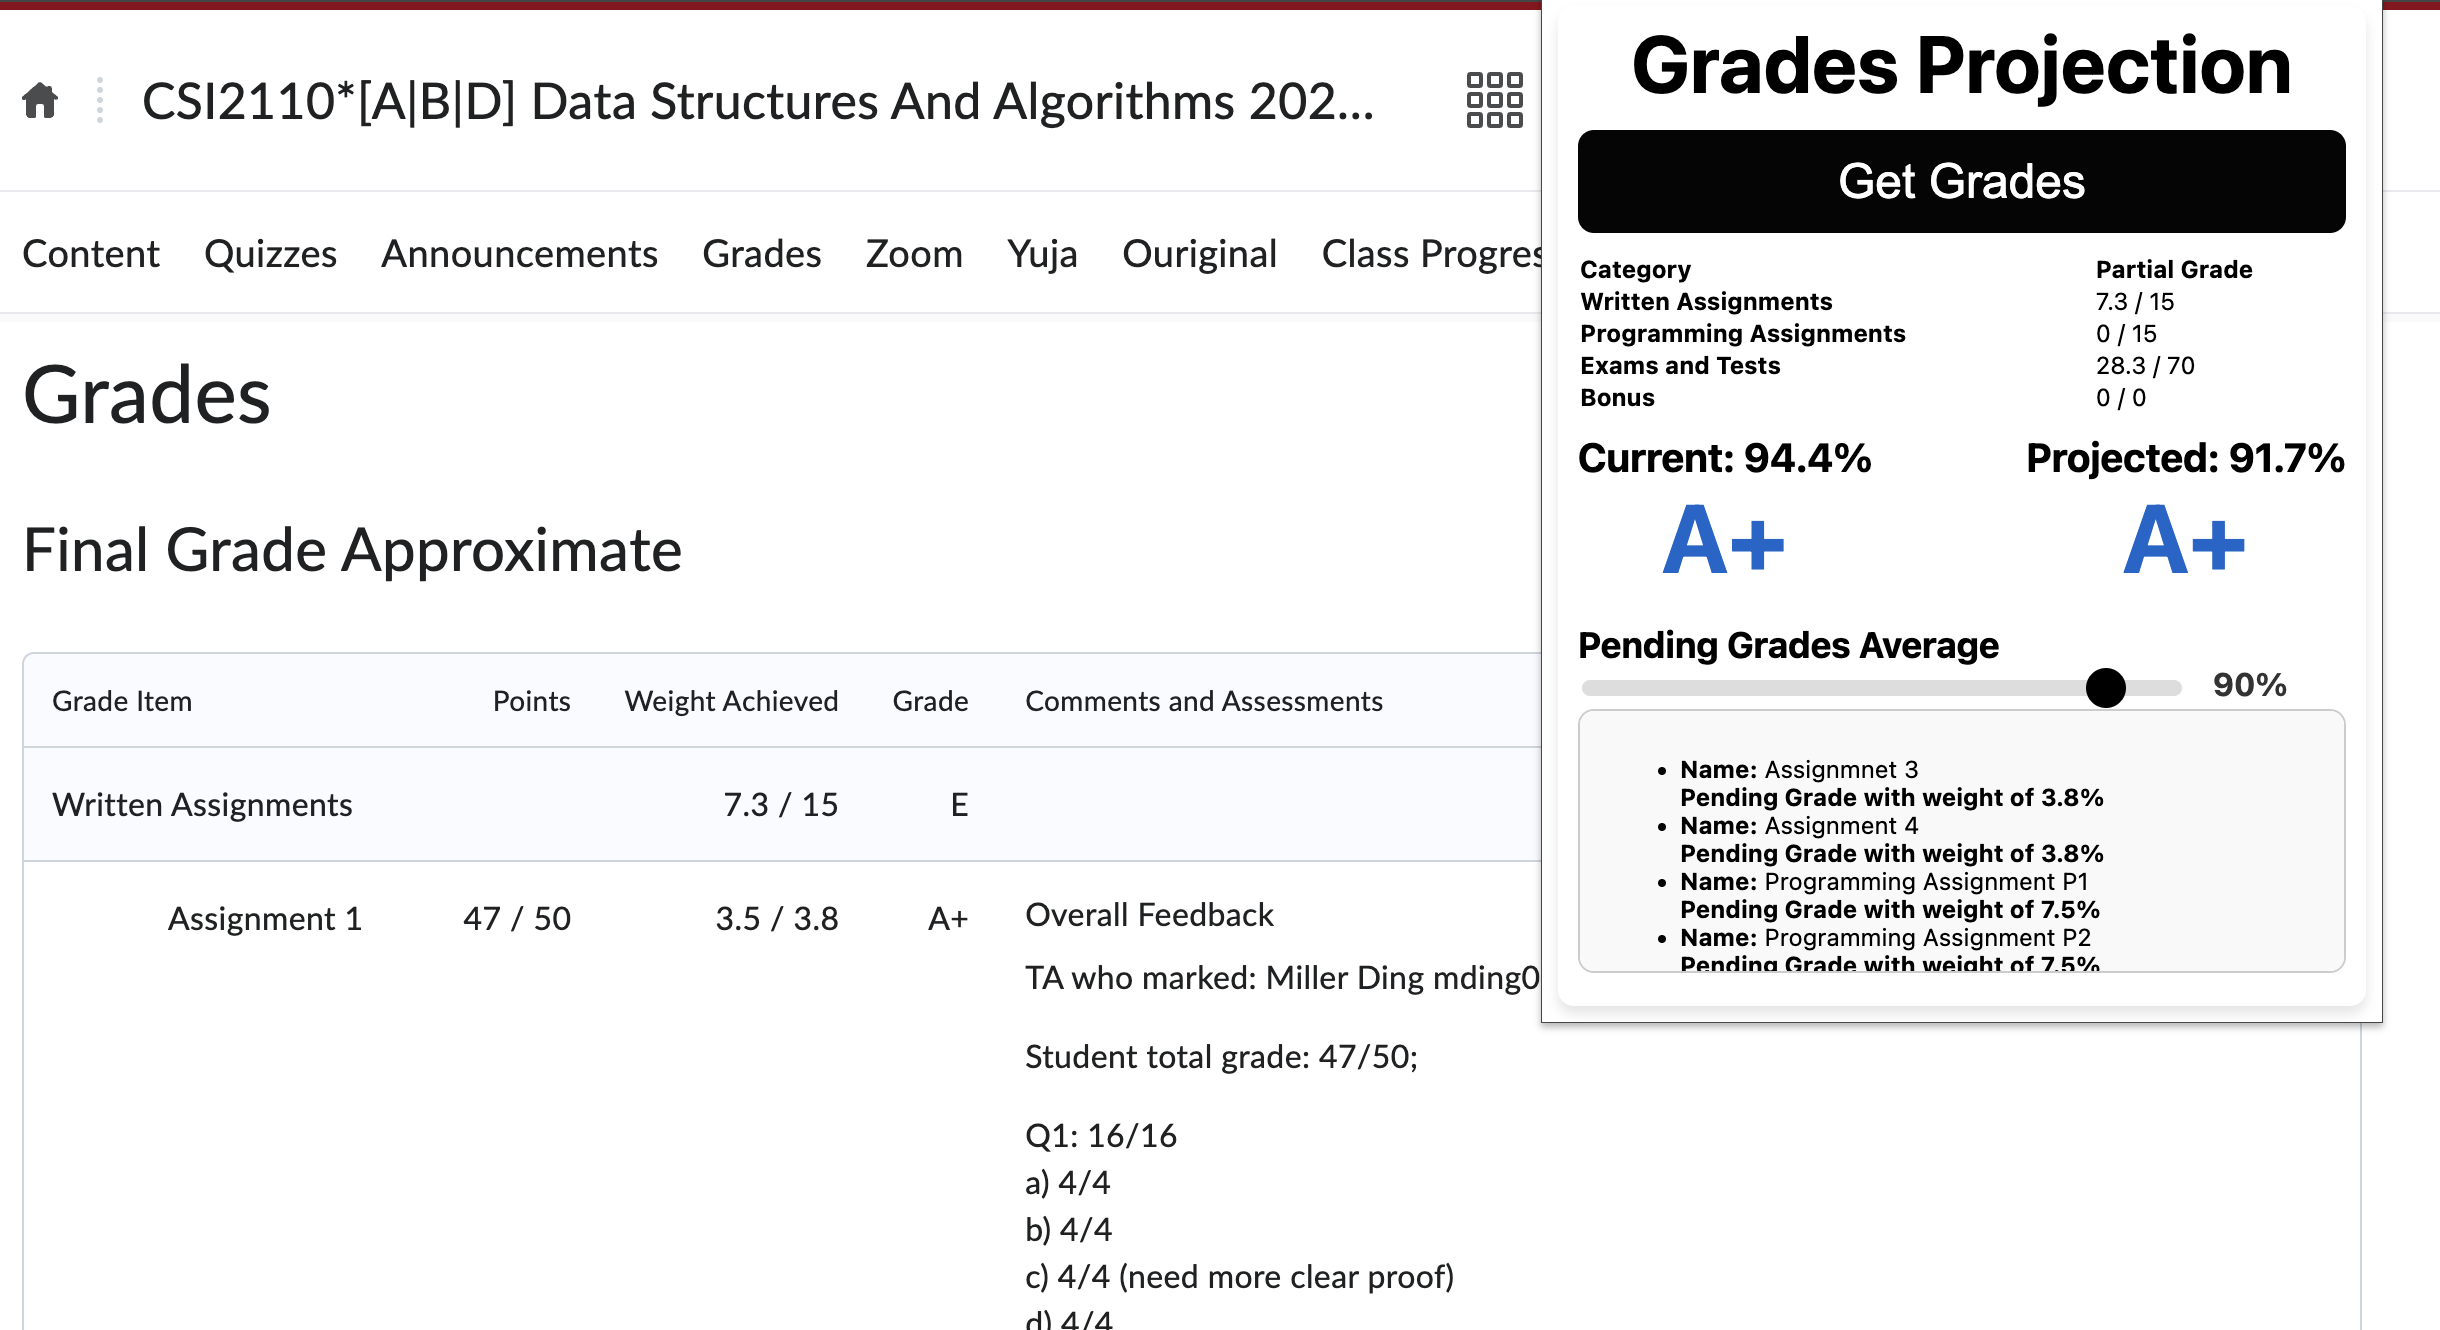
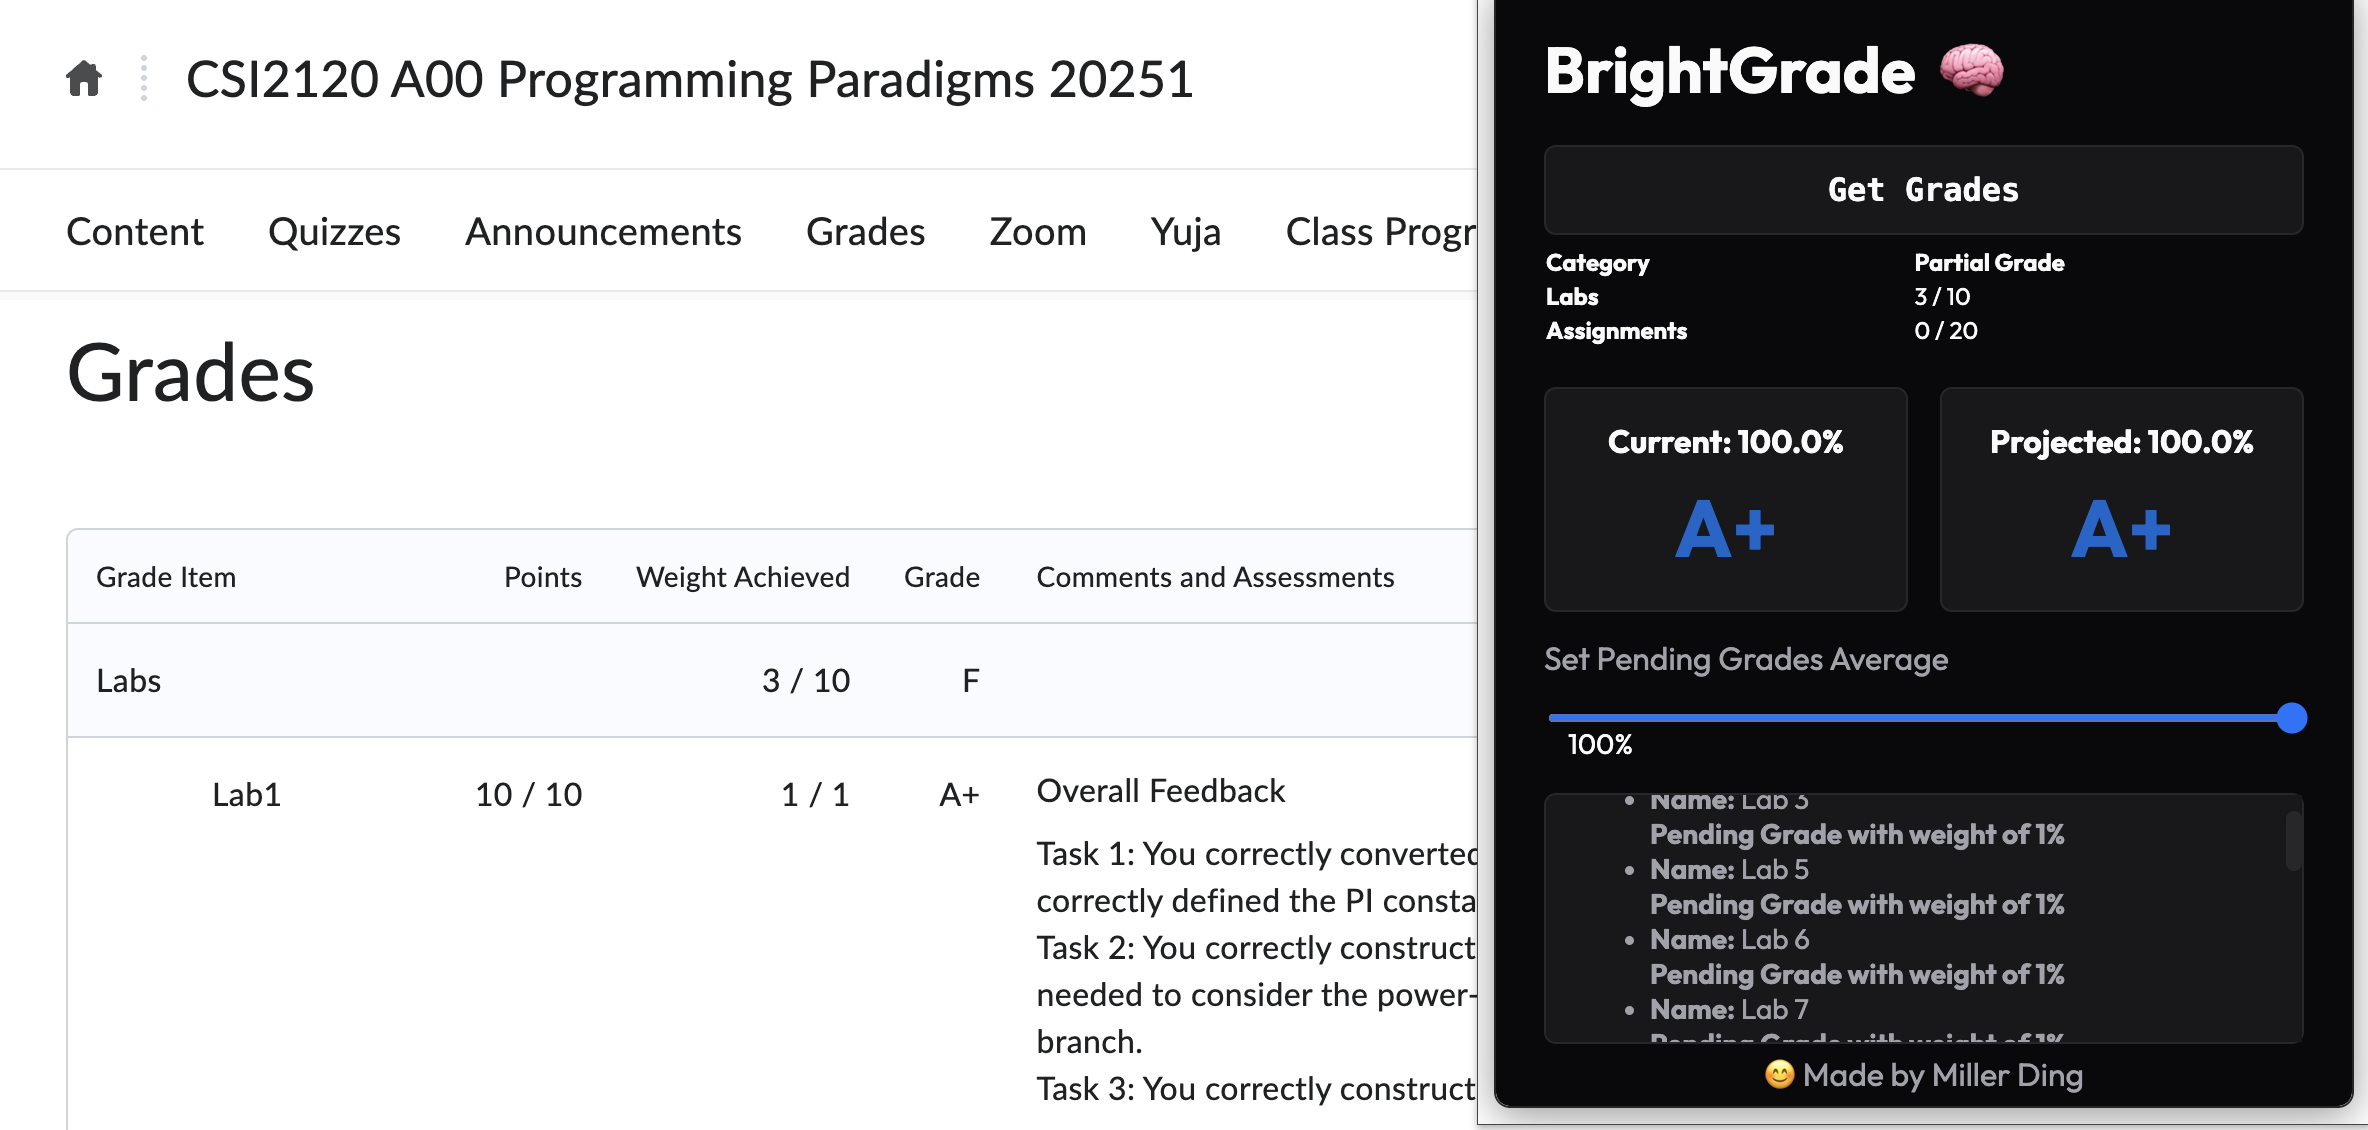
images

diff --git a/README.md b/README.md
@@ -1,5 +1,5 @@
 
-# Grades Projection
+# BrightGrade
 
 Chrome extension to give an accurate calculation of your current grade in a Brightspace class. It works by taking into account weighted points and allows the user to put an estimate as to what they think they will achieve in their pending grades.
 
